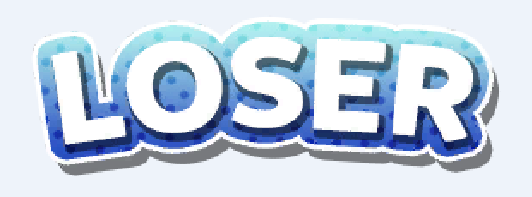
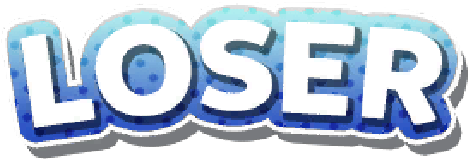
win and lose labels

diff --git a/core/src/com/game/GameScreen.kt b/core/src/com/game/GameScreen.kt
@@ -157,17 +157,21 @@ class GameScreen(val game: PuyoPuyoTetris) : Screen {
         //screenshot is upside down for some reason
         game.batch.draw(screenshot, 0f, Gdx.graphics.height.toFloat(), Gdx.graphics.width.toFloat(), -Gdx.graphics.height.toFloat())
         game.batch.setColor(1f, 1f, 1f, 1f)
-        var puyo = puyoController.puyoGame
         var puyoTexture = winTexture
         var tetrisTexture = loseTexture
-        if (puyo.gameOver) {
+        if (puyoController.puyoGame.gameOver) {
             puyoTexture = loseTexture
             tetrisTexture = winTexture
+            game.batch.draw(puyoTexture, PC.GRID_START_X + (PC.GRID_WIDTH * PC.CELL_SIZE - 4.5f * PC.CELL_SIZE) / 2,
+                    SCREEN_HEIGHT * 0.6f - 1.5f * PC.CELL_SIZE * process / 2, 4.5f * PC.CELL_SIZE, 1.5f * PC.CELL_SIZE * process)
+            game.batch.draw(tetrisTexture, TC.GRID_LEFT_X + (TC.GRID_WIDTH - 5f * PC.CELL_SIZE) / 2,
+                    SCREEN_HEIGHT * 0.6f - 1.5f * PC.CELL_SIZE * process / 2, 5f * PC.CELL_SIZE, 1.5f * PC.CELL_SIZE * process)
+        } else {
+            game.batch.draw(puyoTexture, PC.GRID_START_X + (PC.GRID_WIDTH * PC.CELL_SIZE - 5f * PC.CELL_SIZE) / 2,
+                    SCREEN_HEIGHT * 0.6f - 1.5f * PC.CELL_SIZE * process / 2, 5f * PC.CELL_SIZE, 1.5f * PC.CELL_SIZE * process)
+            game.batch.draw(tetrisTexture, TC.GRID_LEFT_X + (TC.GRID_WIDTH - 4.5f * PC.CELL_SIZE) / 2,
+                    SCREEN_HEIGHT * 0.6f - 1.5f * PC.CELL_SIZE * process / 2, 4.5f * PC.CELL_SIZE, 1.5f * PC.CELL_SIZE * process)
         }
-        game.batch.draw(puyoTexture, PC.GRID_START_X + (PC.GRID_WIDTH * PC.CELL_SIZE - 4f * PC.CELL_SIZE) / 2,
-                SCREEN_HEIGHT * 0.6f - 1.5f * PC.CELL_SIZE * process / 2, 4f * PC.CELL_SIZE, 1.5f * PC.CELL_SIZE * process)
-        game.batch.draw(tetrisTexture, TC.GRID_LEFT_X + (TC.GRID_WIDTH - 4f * PC.CELL_SIZE) / 2,
-                SCREEN_HEIGHT * 0.6f - 1.5f * PC.CELL_SIZE * process / 2, 4f * PC.CELL_SIZE, 1.5f * PC.CELL_SIZE * process)
     }
 
     /// Tetris Methods

diff --git a/core/src/com/game/MenuScreen.kt b/core/src/com/game/MenuScreen.kt
@@ -23,7 +23,7 @@ class MenuScreen(val game: PuyoPuyoTetris) : Screen {
         viewport = FitViewport(camera.viewportWidth, camera.viewportHeight, camera)
         viewport.setScreenPosition(0, 0)
         bg.setFilter(Texture.TextureFilter.Linear, Texture.TextureFilter.Linear)
-        bgm.play()
+        //bgm.play()
     }
 
     override fun render(delta: Float) {
